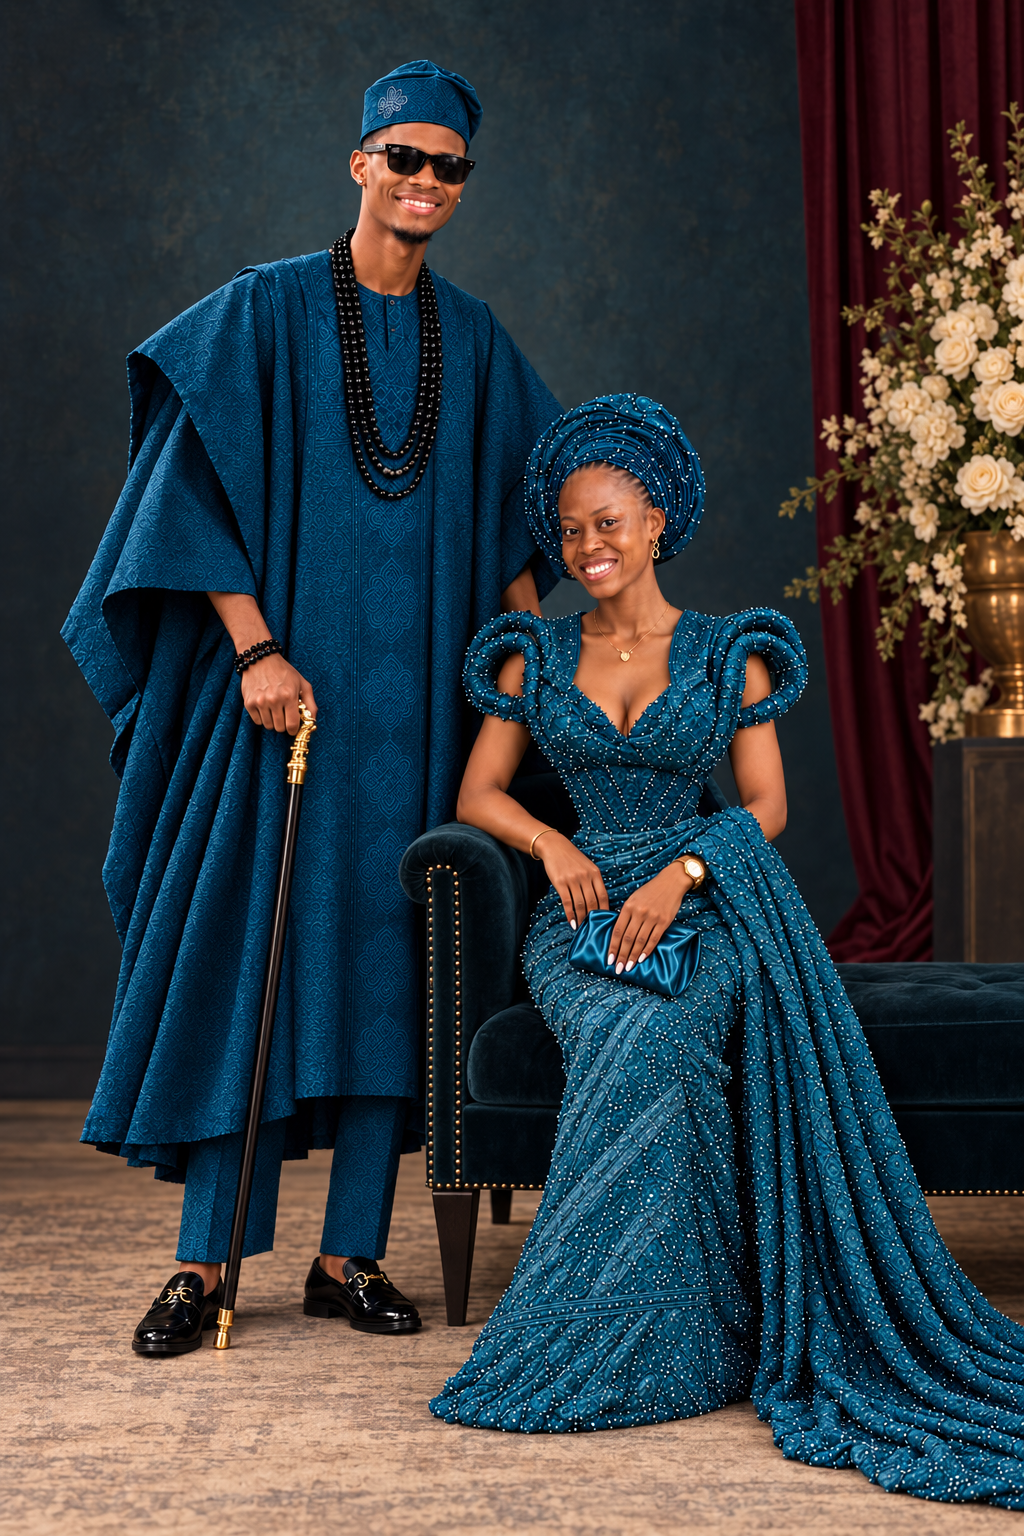
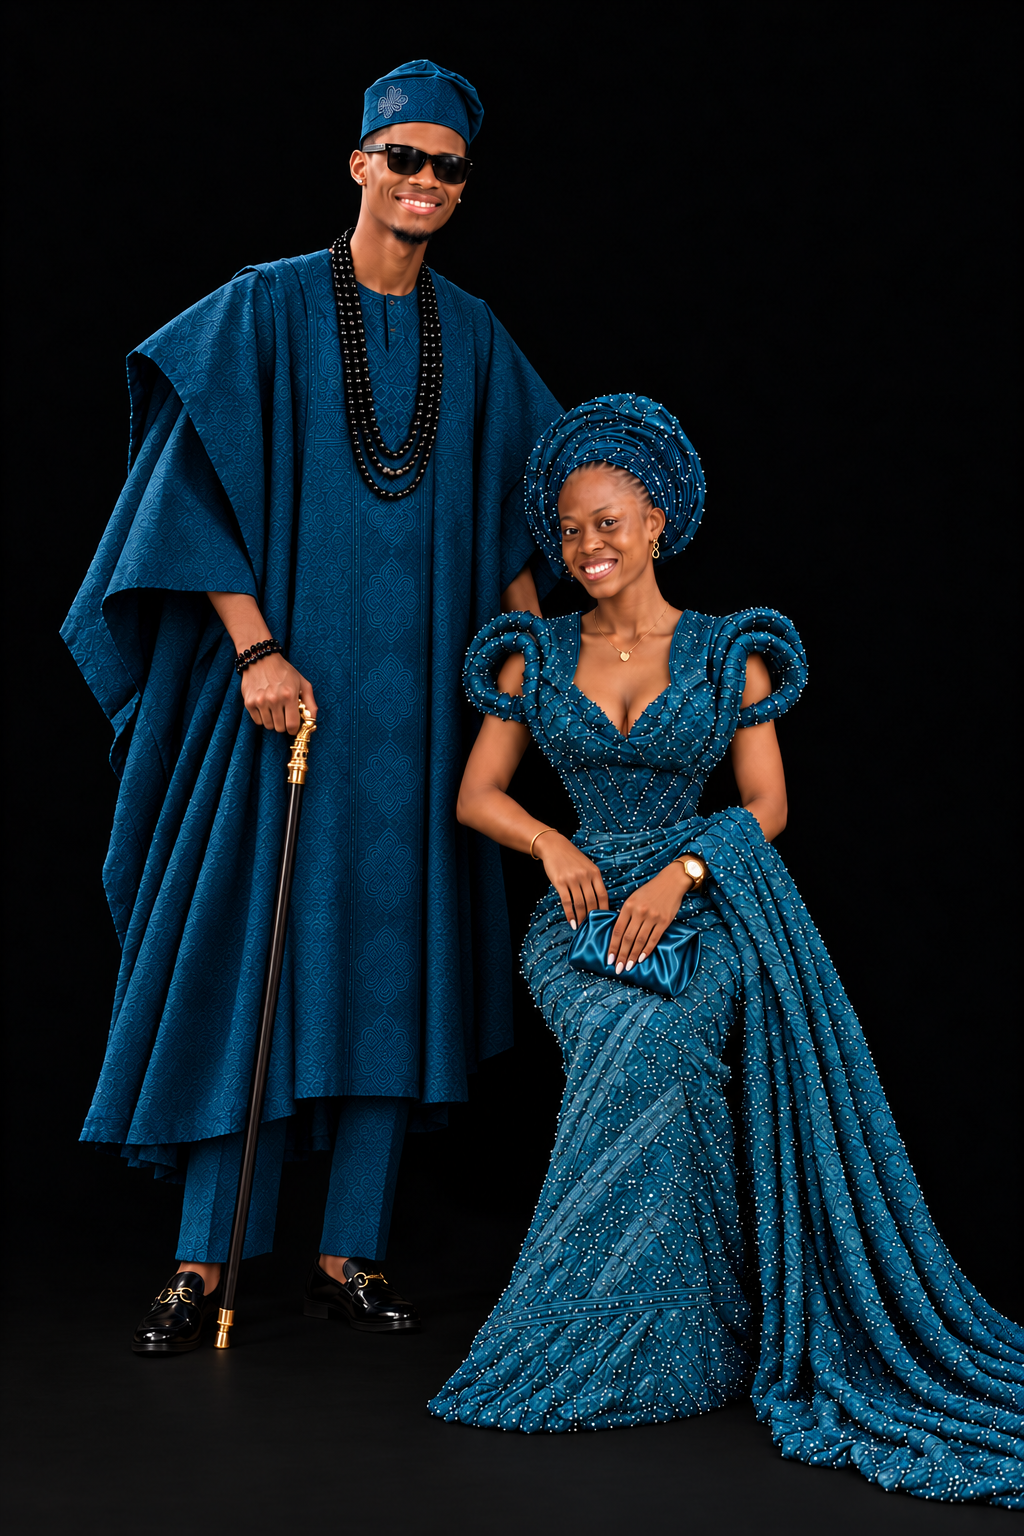
Refine wedding portraits with clean black studio backgrounds

diff --git a/app/wedding-experience.tsx b/app/wedding-experience.tsx
@@ -292,7 +292,7 @@ export default function WeddingExperience() {
       </header>
 
       <section className="hero" id="top">
-        <Image className="hero-image" src="/couple-hero.png" alt="Ifedayo and Joyce in jewel-teal traditional attire walking together through a candlelit celebration" fill priority sizes="100vw" />
+        <Image className="hero-image" src="/couple-hero.png" alt="Ifedayo and Joyce in jewel-teal traditional attire against a black studio backdrop" fill priority sizes="100vw" />
         <div className="hero-shade" />
         <div className="hero-grid" aria-hidden="true" />
         <div className="hero-content">
@@ -325,7 +325,7 @@ export default function WeddingExperience() {
             ))}
           </div>
           <figure className="story-image" data-reveal>
-            <Image src="/couple-story.png" alt="Ifedayo and Joyce sharing an affectionate look in jewel-teal traditional attire" fill sizes="(max-width: 900px) 100vw, 42vw" />
+            <Image src="/couple-story.png" alt="Ifedayo and Joyce sharing an affectionate look in jewel-teal traditional attire against black" fill sizes="(max-width: 900px) 100vw, 42vw" />
             <figcaption><code>merge: two lives → one future</code><span>Built with grace. Rooted in love.</span></figcaption>
           </figure>
         </div>
@@ -387,7 +387,7 @@ export default function WeddingExperience() {
           </TabsList>
           <TabsContent value="pre">
             <div className="gallery-grid">
-              <figure className="gallery-wide"><Image src="/couple-hero.png" alt="Ifedayo and Joyce walking together in jewel-teal traditional attire" fill sizes="(max-width: 800px) 100vw, 52vw" /><figcaption><span>01</span>Before forever</figcaption></figure>
+              <figure className="gallery-wide"><Image src="/couple-hero.png" alt="Ifedayo and Joyce together in jewel-teal traditional attire against black" fill sizes="(max-width: 800px) 100vw, 52vw" /><figcaption><span>01</span>Before forever</figcaption></figure>
               <figure className="gallery-tall"><Image src="/couple-story.png" alt="Ifedayo and Joyce sharing an affectionate portrait" fill sizes="(max-width: 800px) 100vw, 24vw" /><figcaption><span>02</span>Held in grace</figcaption></figure>
               <figure className="gallery-tall"><Image src="/couple-gallery.png" alt="Formal seated portrait of Ifedayo and Joyce" fill sizes="(max-width: 800px) 100vw, 24vw" /><figcaption><span>03</span>Our colour, our joy</figcaption></figure>
             </div>
